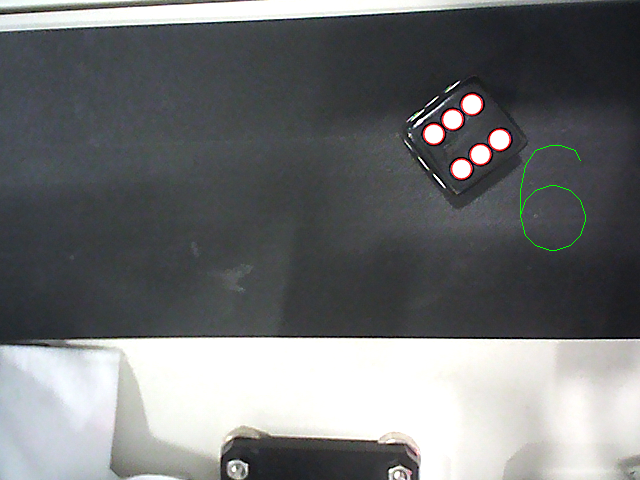
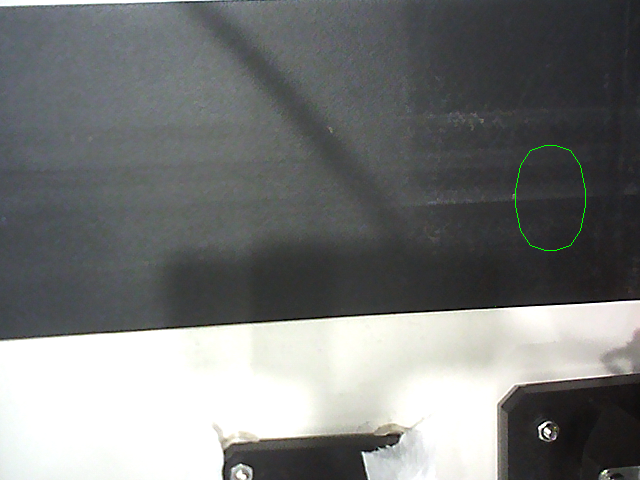
day4

diff --git a/hello/plc3.py b/hello/plc3.py
@@ -48,24 +48,36 @@ def on_subscribe(client, userdata, mid, granted_qos):
 
 
 dice = 0
+message = {"tagId": "1", "value": "1"}
+mflag = True
+aflag = True
+dflag = True
 
 
 def on_message1(client, userdata, msg):
     global message
     global dice
+    global aflag
+    global mflag
+    global dflag
     data = msg.payload.decode("utf-8")
     Ardread()
-    if Ardread() > 50:
+    if Ardread() > 50 and aflag:
         message = {"tagId": "10", "value": "0"}
-    else:
+        aflag = False
+        mflag = False
+    elif Ardread() <= 50 and aflag == False:
         message = {"tagId": "10", "value": "1"}
+        aflag = True
+        mflag = False
+    global data_dict
     data_dict = json.loads(msg.payload)
     predice = dice
     dice = data_dict["Wrapper"][38]["value"]
     x = data_dict["Wrapper"][34]["value"]
     y = data_dict["Wrapper"][35]["value"]
-    print(x, y)
     # 메시지를 JSON 형식으로 만듭니다.
+    print(x, y)
     dice = int(dice)
     # POST 요청에서 데이터 받아오기
     if dice > 0 and dice < 7 and dice != predice:
@@ -75,12 +87,18 @@ def on_message1(client, userdata, msg):
         sql = """INSERT INTO dice (num) VALUES (%s)"""
         cursor.execute(sql, dice)
         db.commit()  # 데이터베이스에 변경 사항을 반영합니다.
-    if dice >= 2 and dice <= 5:
+    if dice >= 2 and dice <= 5 and dflag == False:
         message = {"tagId": "11", "value": "1"}
-    elif dice == 1 or dice == 6:
+        dflag = True
+        mflag = False
+    elif dice == 1 or dice == 6 and dflag:
         message = {"tagId": "11", "value": "0"}
+        dflag = False
+        mflag = False
     # JSON 메시지를 문자열로 변환하여 발행합니다.
-    client.publish("edukit/control", json.dumps(message), qos=1)
+    if mflag == False:
+        mflag = True
+        client.publish("edukit/control", json.dumps(message), qos=1)
 
 
 def on_message2(client, userdata, msg):

diff --git a/test.py b/test.py
@@ -1,0 +1,46 @@
+import pymysql
+import schedule
+import time
+
+# 데이터베이스 접속 설정
+db = pymysql.connect(
+    host="localhost",
+    port=3306,
+    user="root",
+    passwd="1234",
+    db="plc",
+    charset="utf8",
+)
+
+
+# 데이터베이스 관련 함수 정의
+def delete_day_contaminated():
+    # 데이터베이스에서 데이터 가져오기
+    cursor = db.cursor()
+    # 여기에서 day_tuna 테이블을 초기화하는 쿼리를 실행합니다.
+    cursor.execute("DELETE FROM day_contaminated")
+    db.commit()
+
+
+def delete_day_amount():
+    # 데이터베이스에서 데이터 가져오기
+    cursor = db.cursor()
+    # 여기에서 day_tuna 테이블을 초기화하는 쿼리를 실행합니다.
+    cursor.execute("DELETE FROM day_amount")
+    db.commit()
+
+
+# 스케줄링 작업 정의
+def scheduled_job():
+    delete_day_amount()
+    delete_day_contaminated()
+    print("스케줄링 작업 실행")
+
+
+# 스케줄링 설정: 매일 00:00에 scheduled_job 함수 실행
+schedule.every().day.at("00:00").do(scheduled_job)
+
+# 스케줄링 루프 실행
+while True:
+    schedule.run_pending()
+    time.sleep(1)

diff --git a/app.py b/app.py
@@ -1,6 +1,8 @@
 from flask import Flask, jsonify, request
 import pymysql
-import datetime
+import schedule
+import time
+import requests
 
 app = Flask(__name__)
 
